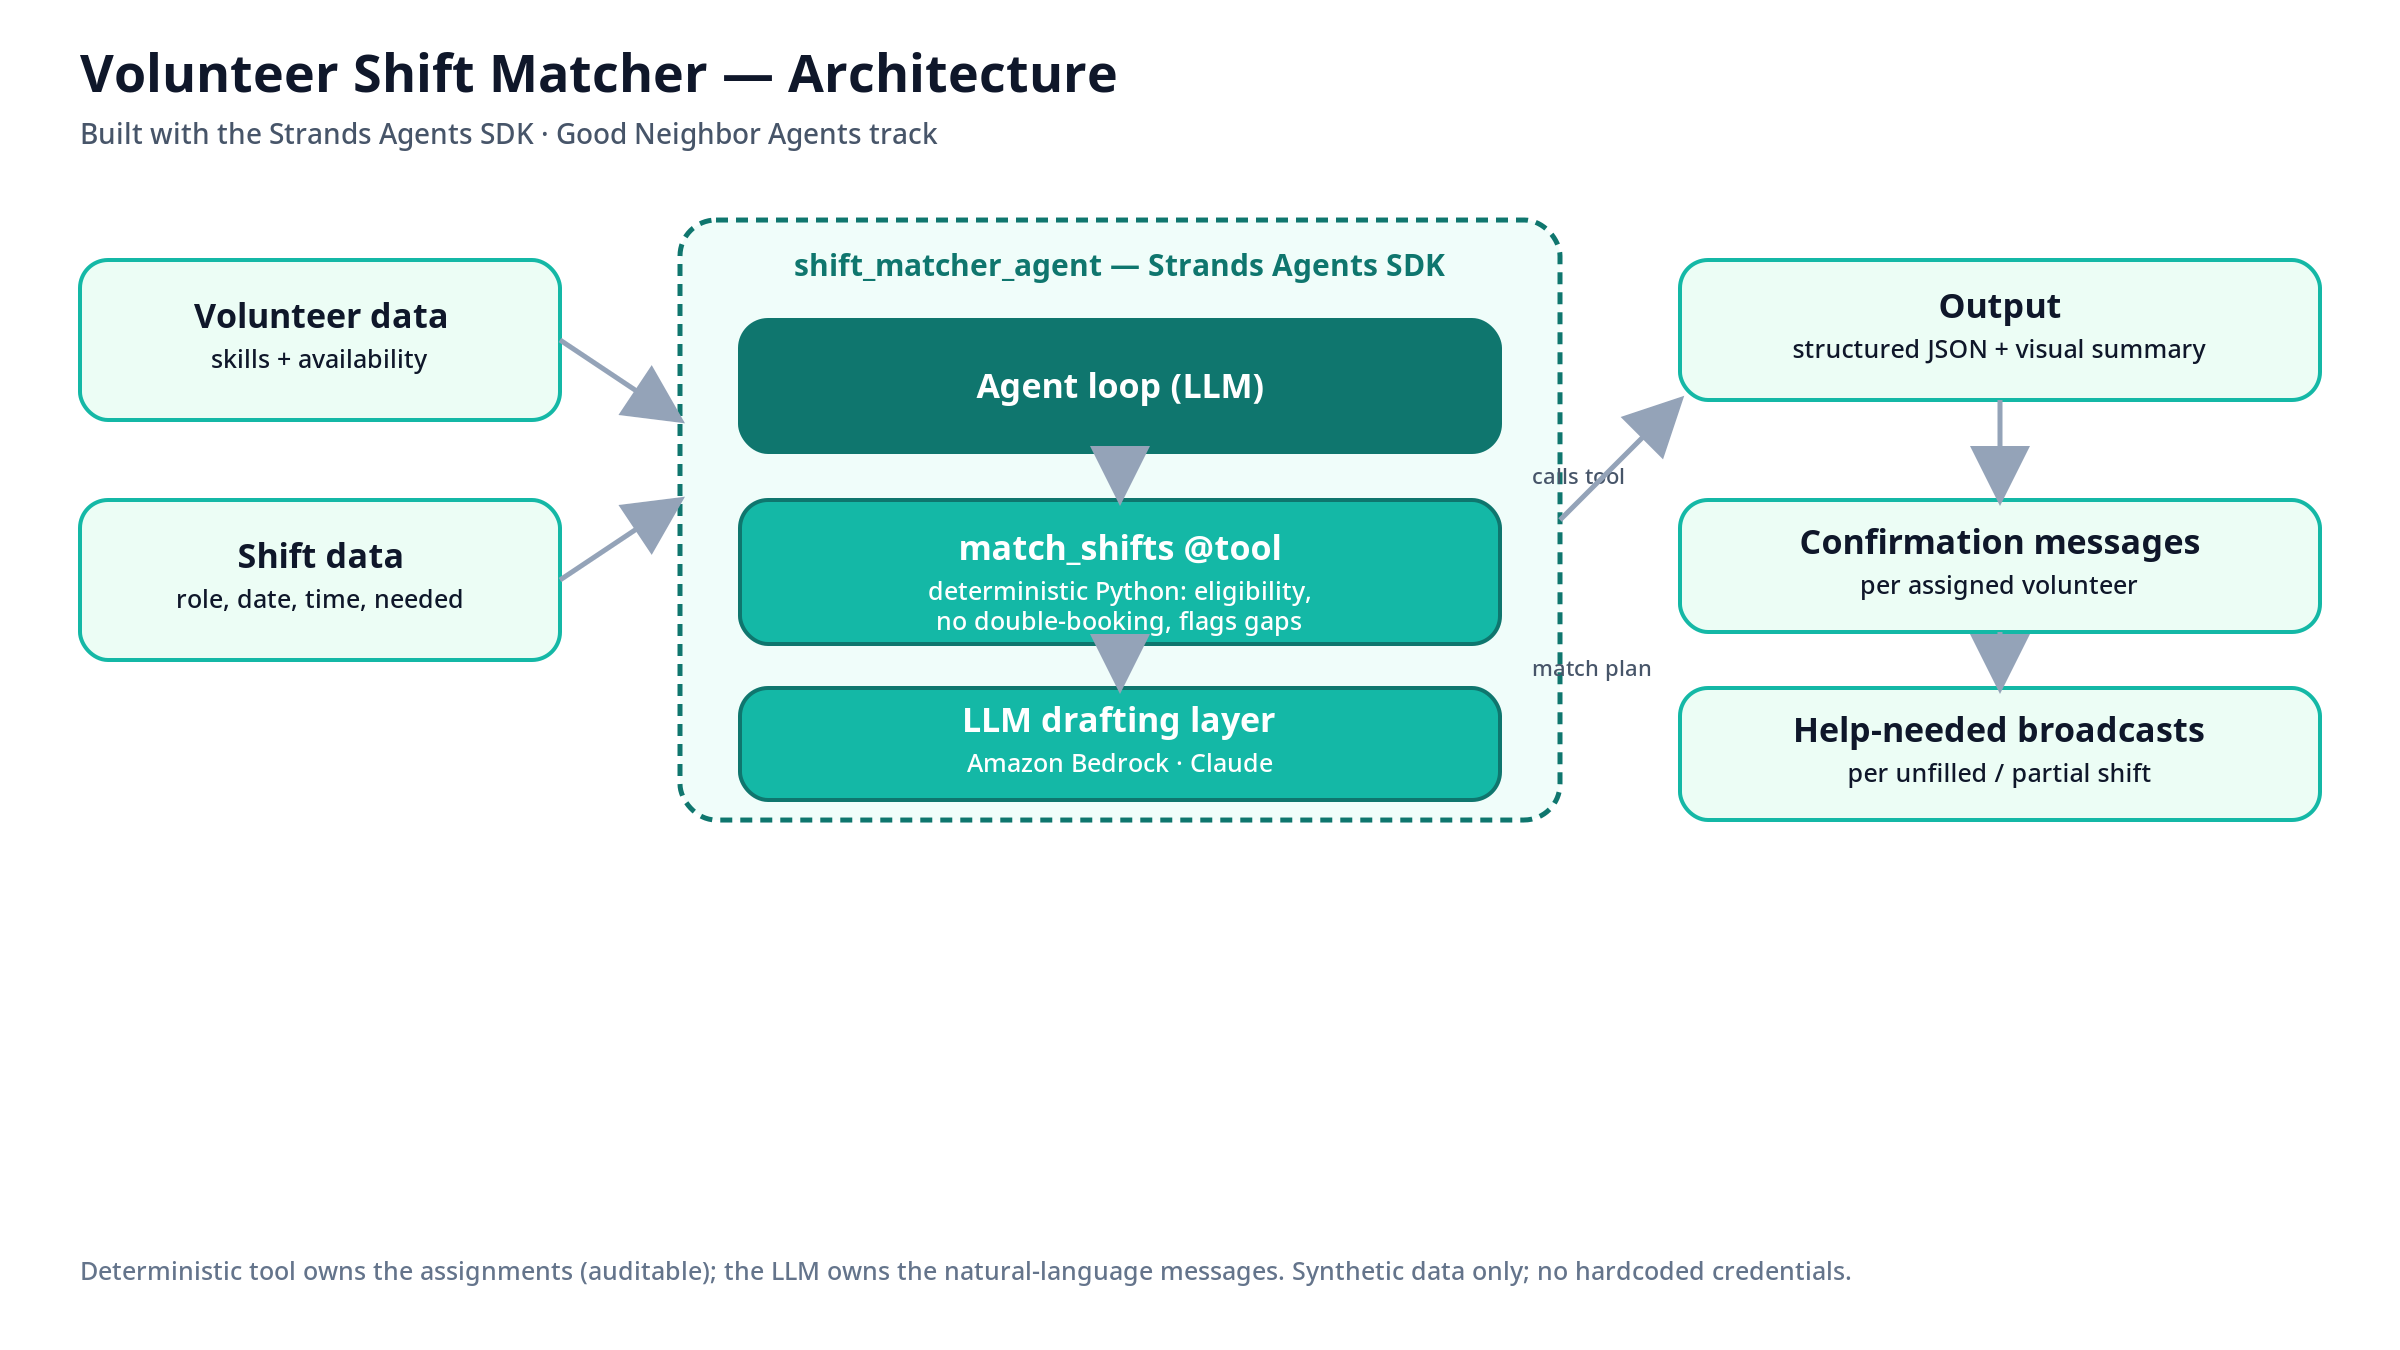
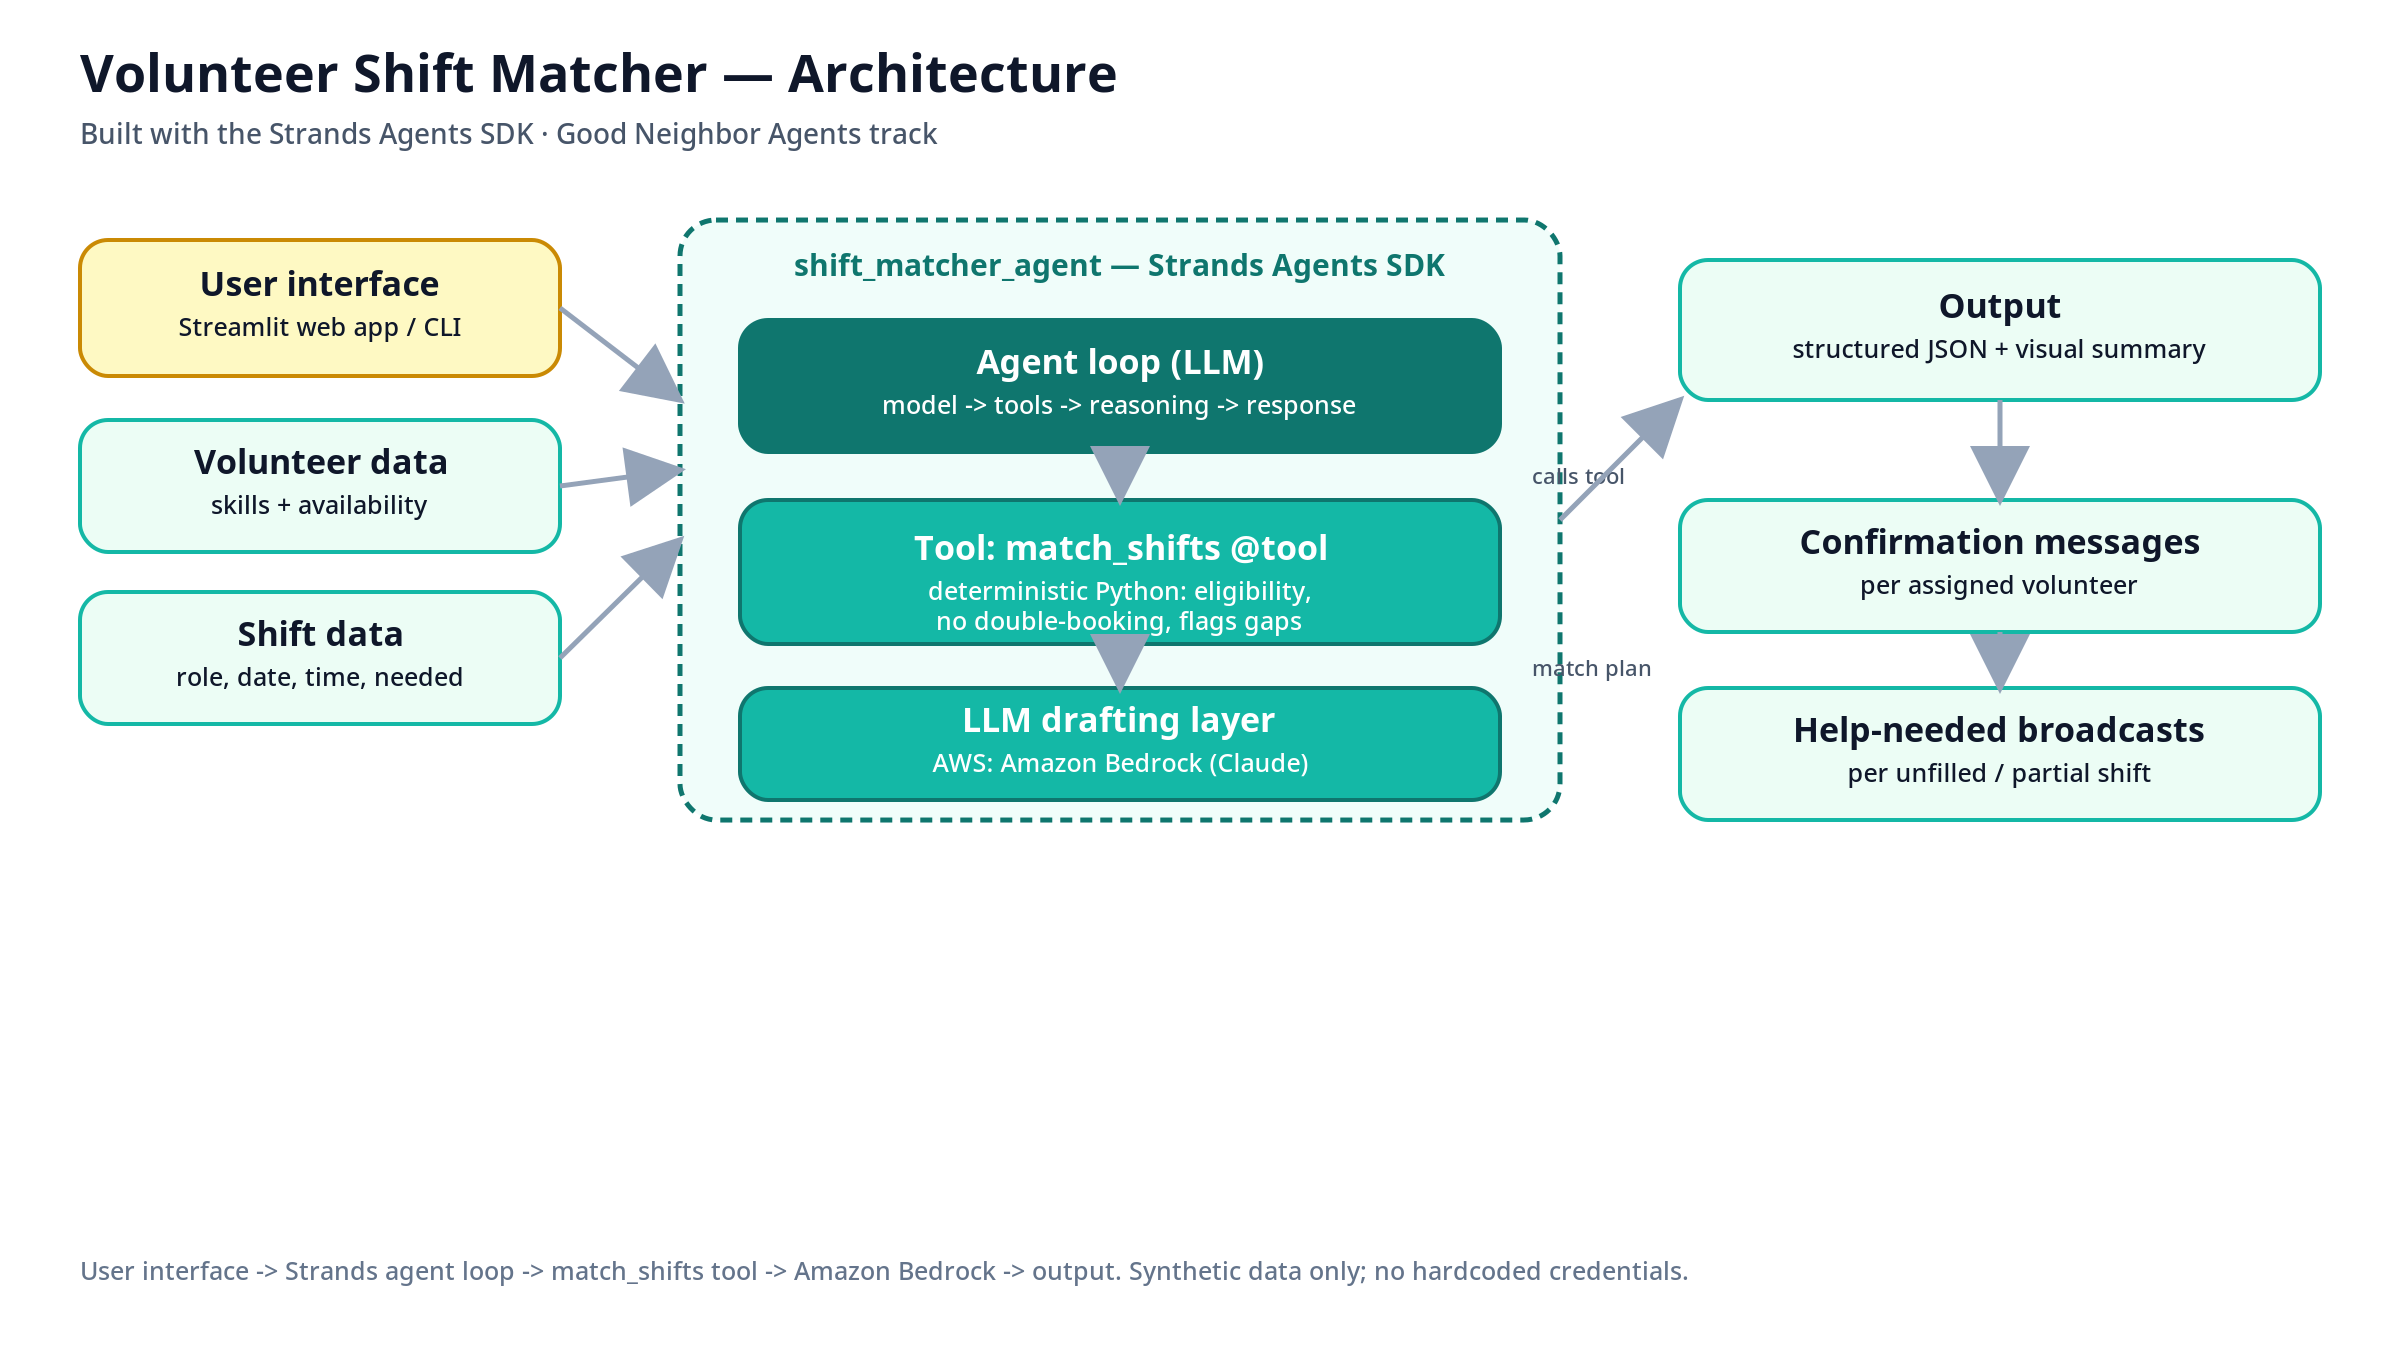
docs: align with hackathon FAQ — diagram now shows UI + tools + AWS + output; gitignore rules file; sharpen AI-disclosure & data-privacy notes

diff --git a/docs/make_diagram.py b/docs/make_diagram.py
@@ -77,9 +77,10 @@ def build_svg() -> str:
         f'fill="#475569">Built with the Strands Agents SDK · Good Neighbor Agents track</text>',
     ]
 
-    # Inputs (left)
-    parts.append(box(40, 130, 240, 80, "Volunteer data", "skills + availability", MINT, TEAL2, INK))
-    parts.append(box(40, 250, 240, 80, "Shift data", "role, date, time, needed", MINT, TEAL2, INK))
+    # Inputs (left) — including how the USER interacts (FAQ: user input/interface)
+    parts.append(box(40, 120, 240, 68, "User interface", "Streamlit web app / CLI", "#fef9c3", "#ca8a04", INK))
+    parts.append(box(40, 210, 240, 66, "Volunteer data", "skills + availability", MINT, TEAL2, INK))
+    parts.append(box(40, 296, 240, 66, "Shift data", "role, date, time, needed", MINT, TEAL2, INK))
 
     # Agent container (middle)
     parts.append(
@@ -90,12 +91,12 @@ def build_svg() -> str:
         f'<text x="560" y="138" text-anchor="middle" font-family="Segoe UI, Arial, sans-serif" '
         f'font-size="15" font-weight="800" fill="{TEAL}">shift_matcher_agent — Strands Agents SDK</text>'
     )
-    parts.append(box(370, 160, 380, 66, "Agent loop (LLM)", "", TEAL, TEAL, "#ffffff"))
+    parts.append(box(370, 160, 380, 66, "Agent loop (LLM)", "model -> tools -> reasoning -> response", TEAL, TEAL, "#ffffff"))
     parts.append(
-        box(370, 250, 380, 72, "match_shifts  @tool", "deterministic Python: eligibility,\nno double-booking, flags gaps", TEAL2, TEAL, "#ffffff")
+        box(370, 250, 380, 72, "Tool: match_shifts  @tool", "deterministic Python: eligibility,\nno double-booking, flags gaps", TEAL2, TEAL, "#ffffff")
     )
     parts.append(
-        box(370, 344, 380, 56, "LLM drafting layer", "Amazon Bedrock · Claude", TEAL2, TEAL, "#ffffff")
+        box(370, 344, 380, 56, "LLM drafting layer", "AWS: Amazon Bedrock (Claude)", TEAL2, TEAL, "#ffffff")
     )
     # internal arrows
     parts.append(arrow(560, 226, 560, 250, ""))
@@ -116,8 +117,9 @@ def build_svg() -> str:
     parts.append(box(840, 344, 320, 66, "Help-needed broadcasts", "per unfilled / partial shift", MINT, TEAL2, INK))
 
     # cross arrows
-    parts.append(arrow(280, 170, 340, 210))   # volunteer -> agent
-    parts.append(arrow(280, 290, 340, 250))   # shift -> agent
+    parts.append(arrow(280, 154, 340, 200))   # user interface -> agent
+    parts.append(arrow(280, 243, 340, 235))   # volunteer -> agent
+    parts.append(arrow(280, 329, 340, 270))   # shift -> agent
     parts.append(arrow(780, 260, 840, 200))   # agent -> output
     parts.append(arrow(1000, 200, 1000, 250)) # output -> confirmations
     parts.append(arrow(1000, 316, 1000, 344)) # output -> broadcasts
@@ -125,8 +127,8 @@ def build_svg() -> str:
     # footer note
     parts.append(
         f'<text x="40" y="640" font-family="Segoe UI, Arial, sans-serif" font-size="12.5" '
-        f'fill="#64748b">Deterministic tool owns the assignments (auditable); the LLM owns the '
-        f'natural-language messages. Synthetic data only; no hardcoded credentials.</text>'
+        f'fill="#64748b">User interface -> Strands agent loop -> match_shifts tool -> Amazon Bedrock -> output. '
+        f'Synthetic data only; no hardcoded credentials.</text>'
     )
 
     parts.append("</svg>")

diff --git a/ARCHITECTURE.md b/ARCHITECTURE.md
@@ -10,31 +10,46 @@ automates that matching and drafts the outreach messages.
 
 ## Data flow
 
+> A rendered image of this diagram is available at
+> [`docs/architecture.png`](./docs/architecture.png) (also used for the Devpost
+> submission). The Mermaid source below covers the five elements the hackathon
+> FAQ asks for: user interface, the Strands agent + agentic loop, tools &
+> integrations, AWS services used, and output.
+
 ```mermaid
 flowchart LR
+    UI["User interface<br/>(Streamlit web app / CLI)"]
+
     subgraph Inputs
         V["Volunteer data<br/>(name, email, roles,<br/>availability windows)"]
         S["Shift data<br/>(role, date, time,<br/>min_volunteers_needed)"]
     end
 
+    UI --> AG
     V --> AG
     S --> AG
 
-    subgraph Agent["shift_matcher_agent (Strands Agent)"]
+    subgraph Agent["shift_matcher_agent (Strands Agents SDK)"]
         direction TB
-        AG["Agent loop<br/>(LLM orchestration)"] -->|calls tool| T["match_shifts @tool<br/>(deterministic Python:<br/>eligibility + greedy assign,<br/>flags gaps)"]
-        T -->|match plan JSON| DRAFT["LLM drafting layer<br/>(warm confirmations +<br/>help-needed broadcasts)"]
+        AG["Agent loop (LLM orchestration)<br/>model → tools → reasoning → response"] -->|calls tool| T["Tool: match_shifts @tool<br/>(deterministic Python:<br/>eligibility + greedy assign,<br/>flags gaps)"]
+        T -->|match plan JSON| DRAFT["LLM drafting layer<br/>AWS: Amazon Bedrock (Claude)<br/>warm confirmations + broadcasts"]
     end
 
     AG --> OUT
     DRAFT --> OUT
 
     subgraph Output
-        OUT["Structured JSON<br/>+ human-readable console summary"]
+        OUT["Structured JSON<br/>+ human-readable / visual summary"]
         OUT --> C["Confirmation messages<br/>(per assigned volunteer)"]
         OUT --> B["Help-needed broadcasts<br/>(per unfilled/partial shift)"]
     end
 ```
+
+**Elements (per hackathon FAQ):** *User interface* — Streamlit web app or CLI ·
+*Strands Agents* — the `shift_matcher_agent` and its agentic loop · *Tools &
+integrations* — the deterministic `match_shifts` `@tool` · *AWS services* — Amazon
+Bedrock (Claude Sonnet 4) for message drafting · *Output* — structured JSON plus a
+visual/console summary (confirmations + help-needed broadcasts).
 
 ## How data flows through the system (in words)
 

diff --git a/SUBMISSION.md b/SUBMISSION.md
@@ -122,8 +122,14 @@ Safety before you push public:
 - [x] No hardcoded API keys anywhere — secret scan clean.
 - [x] Virtual env (`.venv/`) is gitignored and not committed.
 
-AI-tool disclosure (per rules):
-- [x] This project's code was written new during the submission period with the
-      help of an AI coding assistant, which the rules explicitly allow. No
-      pre-existing/reused AI-built project is incorporated. Disclose if your org
-      requires it.
+AI-tool disclosure (per rules & FAQ):
+- [x] This project was **newly created during the submission period** (Aug 10 –
+      Sep 14, 2026). Standard tools were used and are allowed without disclosure:
+      the Strands Agents SDK, open-source libraries (boto3, Streamlit, pytest),
+      and an AI coding assistant. No other pre-existing code or prior work is
+      incorporated, so there is nothing further to disclose. (Per the FAQ: when in
+      doubt, disclose — there is nothing here that requires it.)
+
+Data privacy (per FAQ):
+- [x] Uses only **synthetic sample data** — no real personal, health, or
+      financial information anywhere in the repo.
